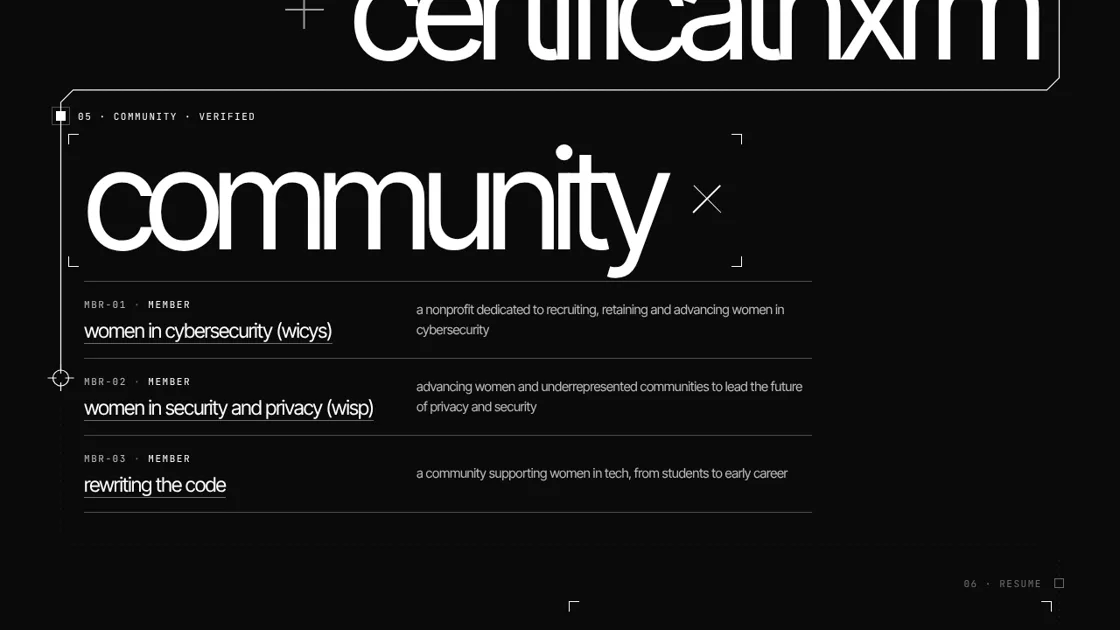
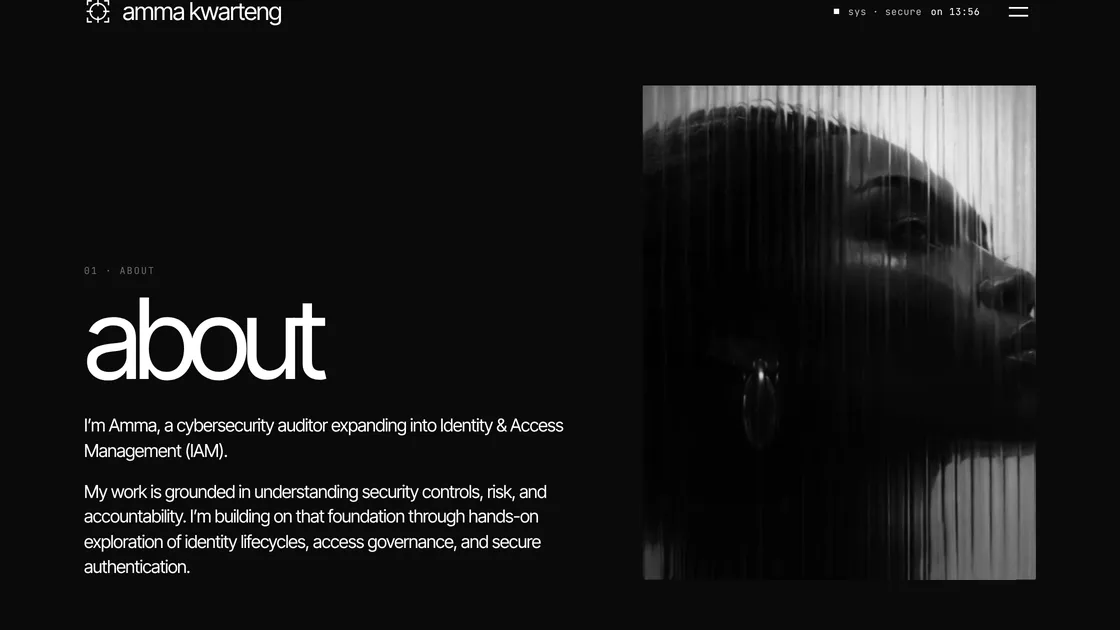
TRACE project: describe and show the current editorial portfolio (new screenshots); remove sign-out, audit log, doodle and new-session mentions; access review keeps its own audit trail
Claude-Session: https://claude.ai/code/session_01HVweuKuKSvnRT3N2xFaE8X

diff --git a/src/data/content.js b/src/data/content.js
@@ -72,7 +72,7 @@ export const projects = [
       "Shows each requester's role baseline and current access next to the request, so least privilege can be judged at a glance",
       "Runs a policy check on every request: role baseline, least privilege, privileged access, separation of duties and time limits",
       "Approve, deny or escalate, then see whether the decision is policy-aligned and why",
-      "Writes a simulated audit event for every decision, and adds it to the visitor's own session audit log at sign-out",
+      "Writes a simulated audit event to the review's audit trail for every decision",
     ],
     demo: "access-review",
     tags: ["IAM", "access reviews", "least privilege", "separation of duties", "PAM", "audit logging", "UX/UI"],
@@ -122,31 +122,30 @@ export const projects = [
     year: "2026",
     status: "live",
     summary:
-      "An interactive cybersecurity portfolio on my own domain, with a living typographic hero, an employer-only encrypted resume and an access-card sign-out that ends in a session audit log.",
+      "An interactive editorial cybersecurity portfolio on my own domain: an animated black-and-white portrait that turns into the About section as you scroll, and an employer-only encrypted resume.",
     points: [
-      "Designed the concept and look of an interactive cybersecurity portfolio",
+      "Designed the concept and look of an interactive cybersecurity portfolio, art-directed like a fashion editorial",
       "Designed the full visual identity: layout, interactions and logo",
+      "Created the hero: an animated black-and-white portrait behind ribbed glass, made with Higgsfield and set with a high-contrast serif title",
+      "Designed the signature interaction: one small scroll and the full-screen portrait glides into the About section's image panel on its own, and scrolling back to the top reverses it",
+      "Made the portrait play muted and inline on iPhone Safari, with a tap-to-play fallback, and a still version for visitors who prefer reduced motion",
       "Registered a custom domain and configured DNS records (A, CNAME, TXT) for GitHub Pages hosting and HTTPS",
       "Locked my resume behind an access code using AES-256 encryption, so only employers I share it with can open it",
       "Set up privacy-friendly analytics with the dashboard restricted to me only",
       "Verified domain ownership and set up automatic publishing on every update",
       "Designed TRACE IMPRINT: the wordmark reconstructs itself on load and leaves faint silver imprints of its letterforms wherever you move or click",
-      "Designed a \"leave your trace\" doodle pad where visitors draw and pin their own doodle",
-      "Designed an access-card sign-out: a brushed-silver magnetic-stripe credential that visitors drag through a swipe reader, with a swipe sound, a reader beep and a green access light",
-      "Designed a session audit log that closes the visit the way an IAM system records it: credential read, authentication, least-privilege authorization, sign-out and token revocation",
-      "Added private event counts for doodles, resume unlocks and badge swipes, so I can see how visitors use the site without collecting personal data",
       "Designed the TRACE visual identity: corner-bracket frames, record-style labels (PRJ-01, CERT, MBR) and a target-lock animation used across the site",
-      "Added a loading screen that replays when a visitor starts a new session",
+      "Added a loading screen where the TRACE reticle draws itself in",
     ],
     gallery: [
-      { src: "projects/trace/01.webp", caption: "TRACE IMPRINT: silver impressions of the wordmark follow your movement" },
-      { src: "projects/trace/02.webp", caption: "The resume, locked behind an access code with AES-256 encryption" },
-      { src: "projects/trace/03.webp", caption: "Sections read as records, with the TRACE frame locking onto each heading" },
-      { src: "projects/trace/04.webp", caption: "The access card and swipe reader at the end of the trace" },
-      { src: "projects/trace/05.webp", caption: "The session audit log after a visitor signs out" },
+      { src: "projects/trace/01.webp", caption: "The hero: an animated portrait behind ribbed glass, with the serif title" },
+      { src: "projects/trace/02.webp", caption: "One small scroll: the portrait glides out of the hero" },
+      { src: "projects/trace/03.webp", caption: "It settles into the About section beside the introduction" },
+      { src: "projects/trace/04.webp", caption: "The resume, locked behind an access code with AES-256 encryption" },
+      { src: "projects/trace/05.webp", caption: "Sections read as records, with the TRACE frame locking onto each heading" },
     ],
     image: { src: "projects/logo.svg", alt: "My logo: a tracking reticle", caption: "my logo" },
-    tags: ["DNS", "HTTPS", "encryption", "access control", "GitHub", "UX/UI"],
+    tags: ["React", "DNS", "HTTPS", "encryption", "access control", "GitHub", "UX/UI", "art direction"],
   },
 ];
 
